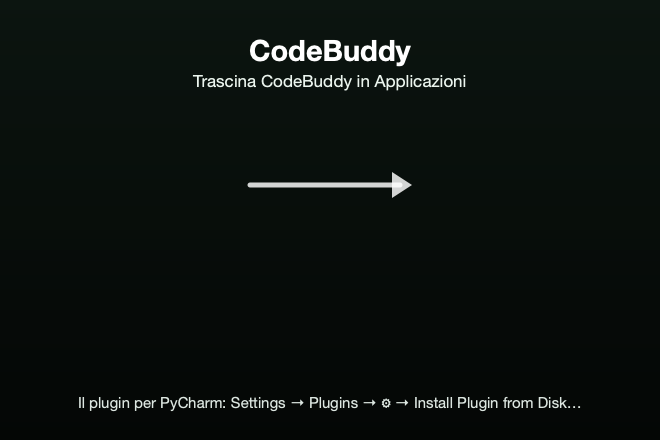
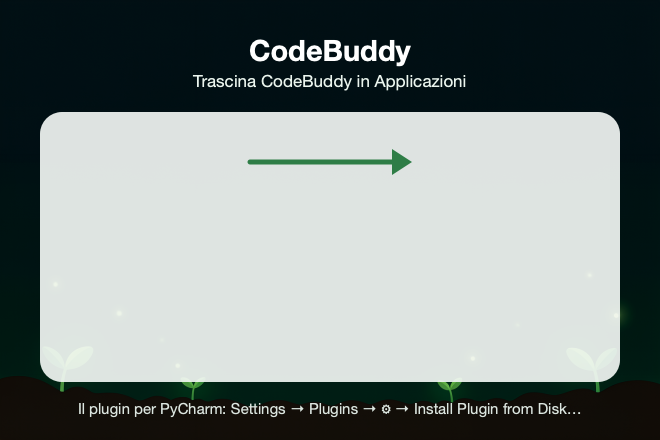
feat(packaging): installer art from Draw Things
An app icon (Sprout as a seed with eyes and two leaves) and a night
garden scene, one image each at 10 steps, composed by make_art.py into
the dmg background (a light card keeps Finder's black labels readable)
and the Windows wizard image. Prompts and seeds in assets/README.md.

diff --git a/packaging/make_art.py b/packaging/make_art.py
@@ -58,22 +58,26 @@ def dmg_background(scale: int) -> QImage:
     image = scene(w, h)
     p = QPainter(image)
     p.setRenderHint(QPainter.RenderHint.Antialiasing)
-    p.fillRect(0, 0, w, h, QColor(0, 0, 0, 90))  # keeps Finder's white labels readable
-    # Arrow from the app (165, 195) to Applications (495, 195), in dmg points.
+    # Finder draws the icon labels in black: the icons sit on a light card so they stay readable.
+    card = QPainterPath()
+    card.addRoundedRect(
+        QRectF(40 * scale, 112 * scale, 580 * scale, 270 * scale),
+        22 * scale,
+        22 * scale,
+    )
+    p.fillPath(card, QColor(244, 248, 245, 232))
+    # Arrow from the app (165, 172) to Applications (495, 172), in dmg points.
     pen = QPen(
-        QColor(255, 255, 255, 210),
-        5 * scale,
-        Qt.PenStyle.SolidLine,
-        Qt.PenCapStyle.RoundCap,
+        QColor(46, 125, 70), 5 * scale, Qt.PenStyle.SolidLine, Qt.PenCapStyle.RoundCap
     )
     p.setPen(pen)
-    y = 185 * scale
+    y = 162 * scale
     p.drawLine(QPointF(250 * scale, y), QPointF(400 * scale, y))
     head = QPainterPath(QPointF(412 * scale, y))
     head.lineTo(392 * scale, y - 13 * scale)
     head.lineTo(392 * scale, y + 13 * scale)
     head.closeSubpath()
-    p.fillPath(head, QColor(255, 255, 255, 210))
+    p.fillPath(head, QColor(46, 125, 70))
     title = QFont("Helvetica Neue", 22 * scale, QFont.Weight.Bold)
     p.setFont(title)
     p.setPen(QColor(255, 255, 255))
@@ -90,7 +94,7 @@ def dmg_background(scale: int) -> QImage:
     p.setFont(QFont("Helvetica Neue", 11 * scale))
     p.setPen(QColor(220, 230, 224))
     p.drawText(
-        QRectF(0, 392 * scale, w, 22 * scale),
+        QRectF(0, 398 * scale, w, 22 * scale),
         Qt.AlignmentFlag.AlignCenter,
         "Il plugin per PyCharm: Settings → Plugins → ⚙ → Install Plugin from Disk…",
     )
@@ -126,12 +130,32 @@ def wizard() -> QImage:
     return image
 
 
+def squircle(raw: QImage) -> QImage:
+    """The model paints the rounded square on a white page: keep only the inside, transparent
+    corners, at 1024 px."""
+    size = 1024
+    src = raw.scaled(size, size, Qt.AspectRatioMode.IgnoreAspectRatio,
+                     Qt.TransformationMode.SmoothTransformation)  # fmt: skip
+    icon = QImage(size, size, QImage.Format.Format_ARGB32)
+    icon.fill(QColor(0, 0, 0, 0))
+    p = QPainter(icon)
+    p.setRenderHint(QPainter.RenderHint.Antialiasing)
+    clip = QPainterPath()
+    inset = 12
+    clip.addRoundedRect(
+        QRectF(inset, inset, size - 2 * inset, size - 2 * inset), 210, 210
+    )
+    p.setClipPath(clip)
+    p.drawImage(0, 0, src)
+    p.end()
+    return icon
+
+
 def main() -> int:
     QGuiApplication(sys.argv[:1])
     raw_icon = QImage(str(RAW / "icon.png"))
     if not raw_icon.isNull():
-        raw_icon.scaled(1024, 1024, Qt.AspectRatioMode.KeepAspectRatio,
-                        Qt.TransformationMode.SmoothTransformation).save(str(ASSETS / "icon.png"))  # fmt: skip
+        squircle(raw_icon).save(str(ASSETS / "icon.png"))
     dmg_background(1).save(str(ASSETS / "dmg-background.png"))
     dmg_background(2).save(str(ASSETS / "dmg-background@2x.png"))
     wizard().save(str(ASSETS / "wizard.png"))

diff --git a/packaging/macos/dmg_settings.py b/packaging/macos/dmg_settings.py
@@ -15,7 +15,7 @@ show_tab_view = False
 show_toolbar = False
 show_pathbar = False
 show_sidebar = False
-icon_locations = {"CodeBuddy.app": (165, 195), "Applications": (495, 195)}
+icon_locations = {"CodeBuddy.app": (165, 172), "Applications": (495, 172)}
 if plugin:
-    icon_locations[os.path.basename(plugin)] = (330, 345)
+    icon_locations[os.path.basename(plugin)] = (330, 305)
 format = "UDZO"

diff --git a/log/devlog.md b/log/devlog.md
@@ -19,11 +19,15 @@ Newest first. Terse. Written at the end of every task so the next agent can pick
   background; `codesign -v` ok; the app's demo saved 9 snapshots; run from the bundle with
   `BUDDY_PORT=8795`: the bundled brain listened, the notch connected, `kill` → app quit → brain
   stopped ("Finished server process" in brain.log).
+- **Art:** Draw Things (FLUX.2 Klein 9B, 10 steps, 1 image each: icon 71 s, scene 104 s), composed
+  by `make_art.py` (transparent icon corners; a light card under the dmg icons because Finder
+  labels are black). Prompts and seeds in `packaging/assets/README.md`; raw images not committed.
+  dmg rebuilt with it (25 MB, AppIcon.icns 1024 px); window layout checked on a drawn preview (no
+  Screen Recording for a real Finder shot, G12).
 - **Not verified here:** Setup.exe and the AppImage (no Windows/Linux on this Mac): CI builds them.
-  The art is a fallback gradient + Sprout until Draw Things runs (its HTTP API was off).
 - **Tests:** brain 283, notch 47; floors raised. Gate green.
-- **Still open:** Draw Things art (`packaging/assets/raw/`, then `make_art.py`); a CI run of the
-  package jobs; Gatekeeper/SmartScreen still warn (G15, signing is human).
+- **Still open:** the CI run of the package jobs; Gatekeeper/SmartScreen still warn (G15, signing
+  is human); the icon stands in for Sprout's final design (G8).
 
 ## 2026-10-16 12:30: deep theory and #!approfondisci (branch feat/brain-deeper-theory)
 

diff --git a/packaging/assets/README.md b/packaging/assets/README.md
@@ -1,0 +1,14 @@
+# Installer art
+
+Made on 2026-10-16 with Draw Things (HTTP API on :7860, FLUX.2 Klein 9B, 10 steps, guidance 4,
+one image each), then composed by `packaging/make_art.py` (text, arrow, the light card under the
+dmg icons, transparent icon corners). The raw images (`raw/`) are not committed; to redo one,
+generate it again with the prompt below and run `uv run --project overlay python
+packaging/make_art.py`.
+
+| File | From | Prompt (seed) |
+|---|---|---|
+| `icon.png` (1024²) | `raw/icon.png` 1024² | macOS app icon, rounded square squircle, centered: a cute small green seedling sprouting from a round brown seed that has two tiny friendly dot eyes, two fresh leaves, the seed sits on a dark charcoal background with a soft green glow, subtle code brackets { } faintly etched in the background, clean flat vector style with gentle soft shading, professional app icon, no text, no letters (4242) |
+| `dmg-background.png`, `@2x`, `wizard.png` | `raw/scene.png` 1536×1024 | wide calm background illustration, dark night garden seen from low angle, a few small glowing green seedlings sprouting from dark soil along the bottom edge, soft bokeh fireflies, deep charcoal and dark green tones, large empty dark space in the upper and middle area, minimal, flat vector illustration with soft gradients, no text, no letters (777) |
+
+The icon is a stand-in for Sprout's final design, which is the human's (docs/gaps.md G8).
